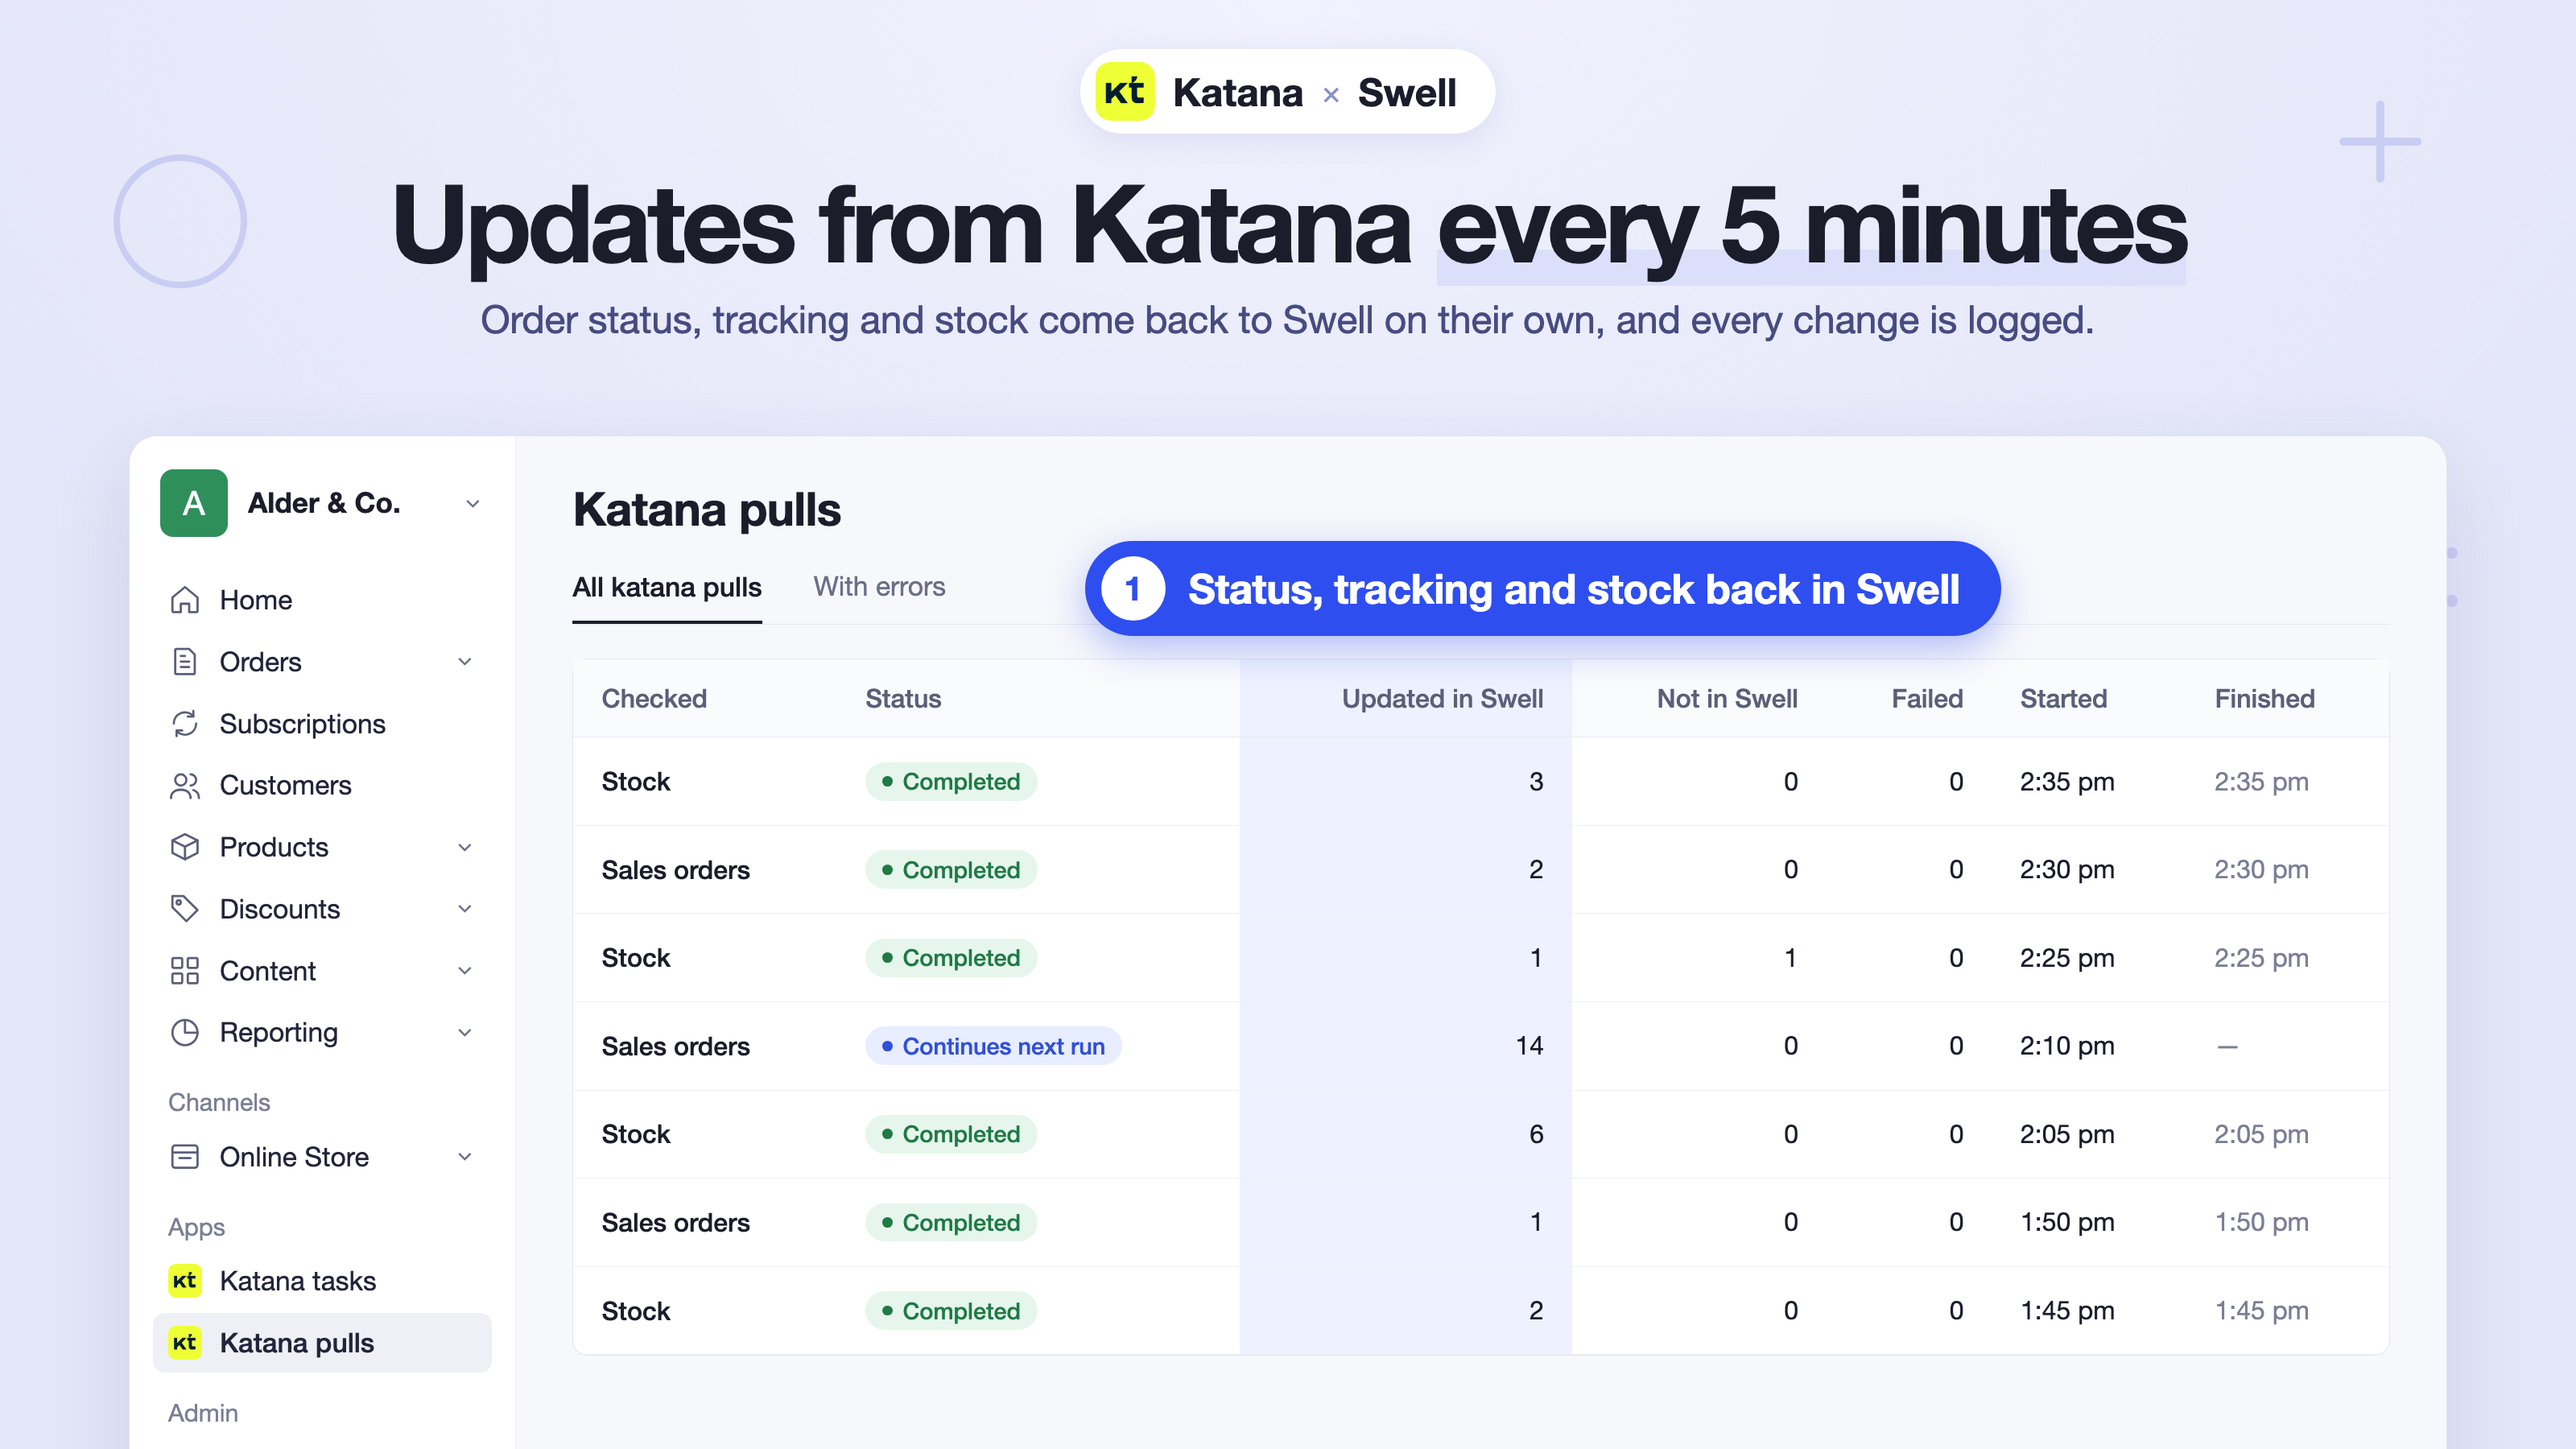
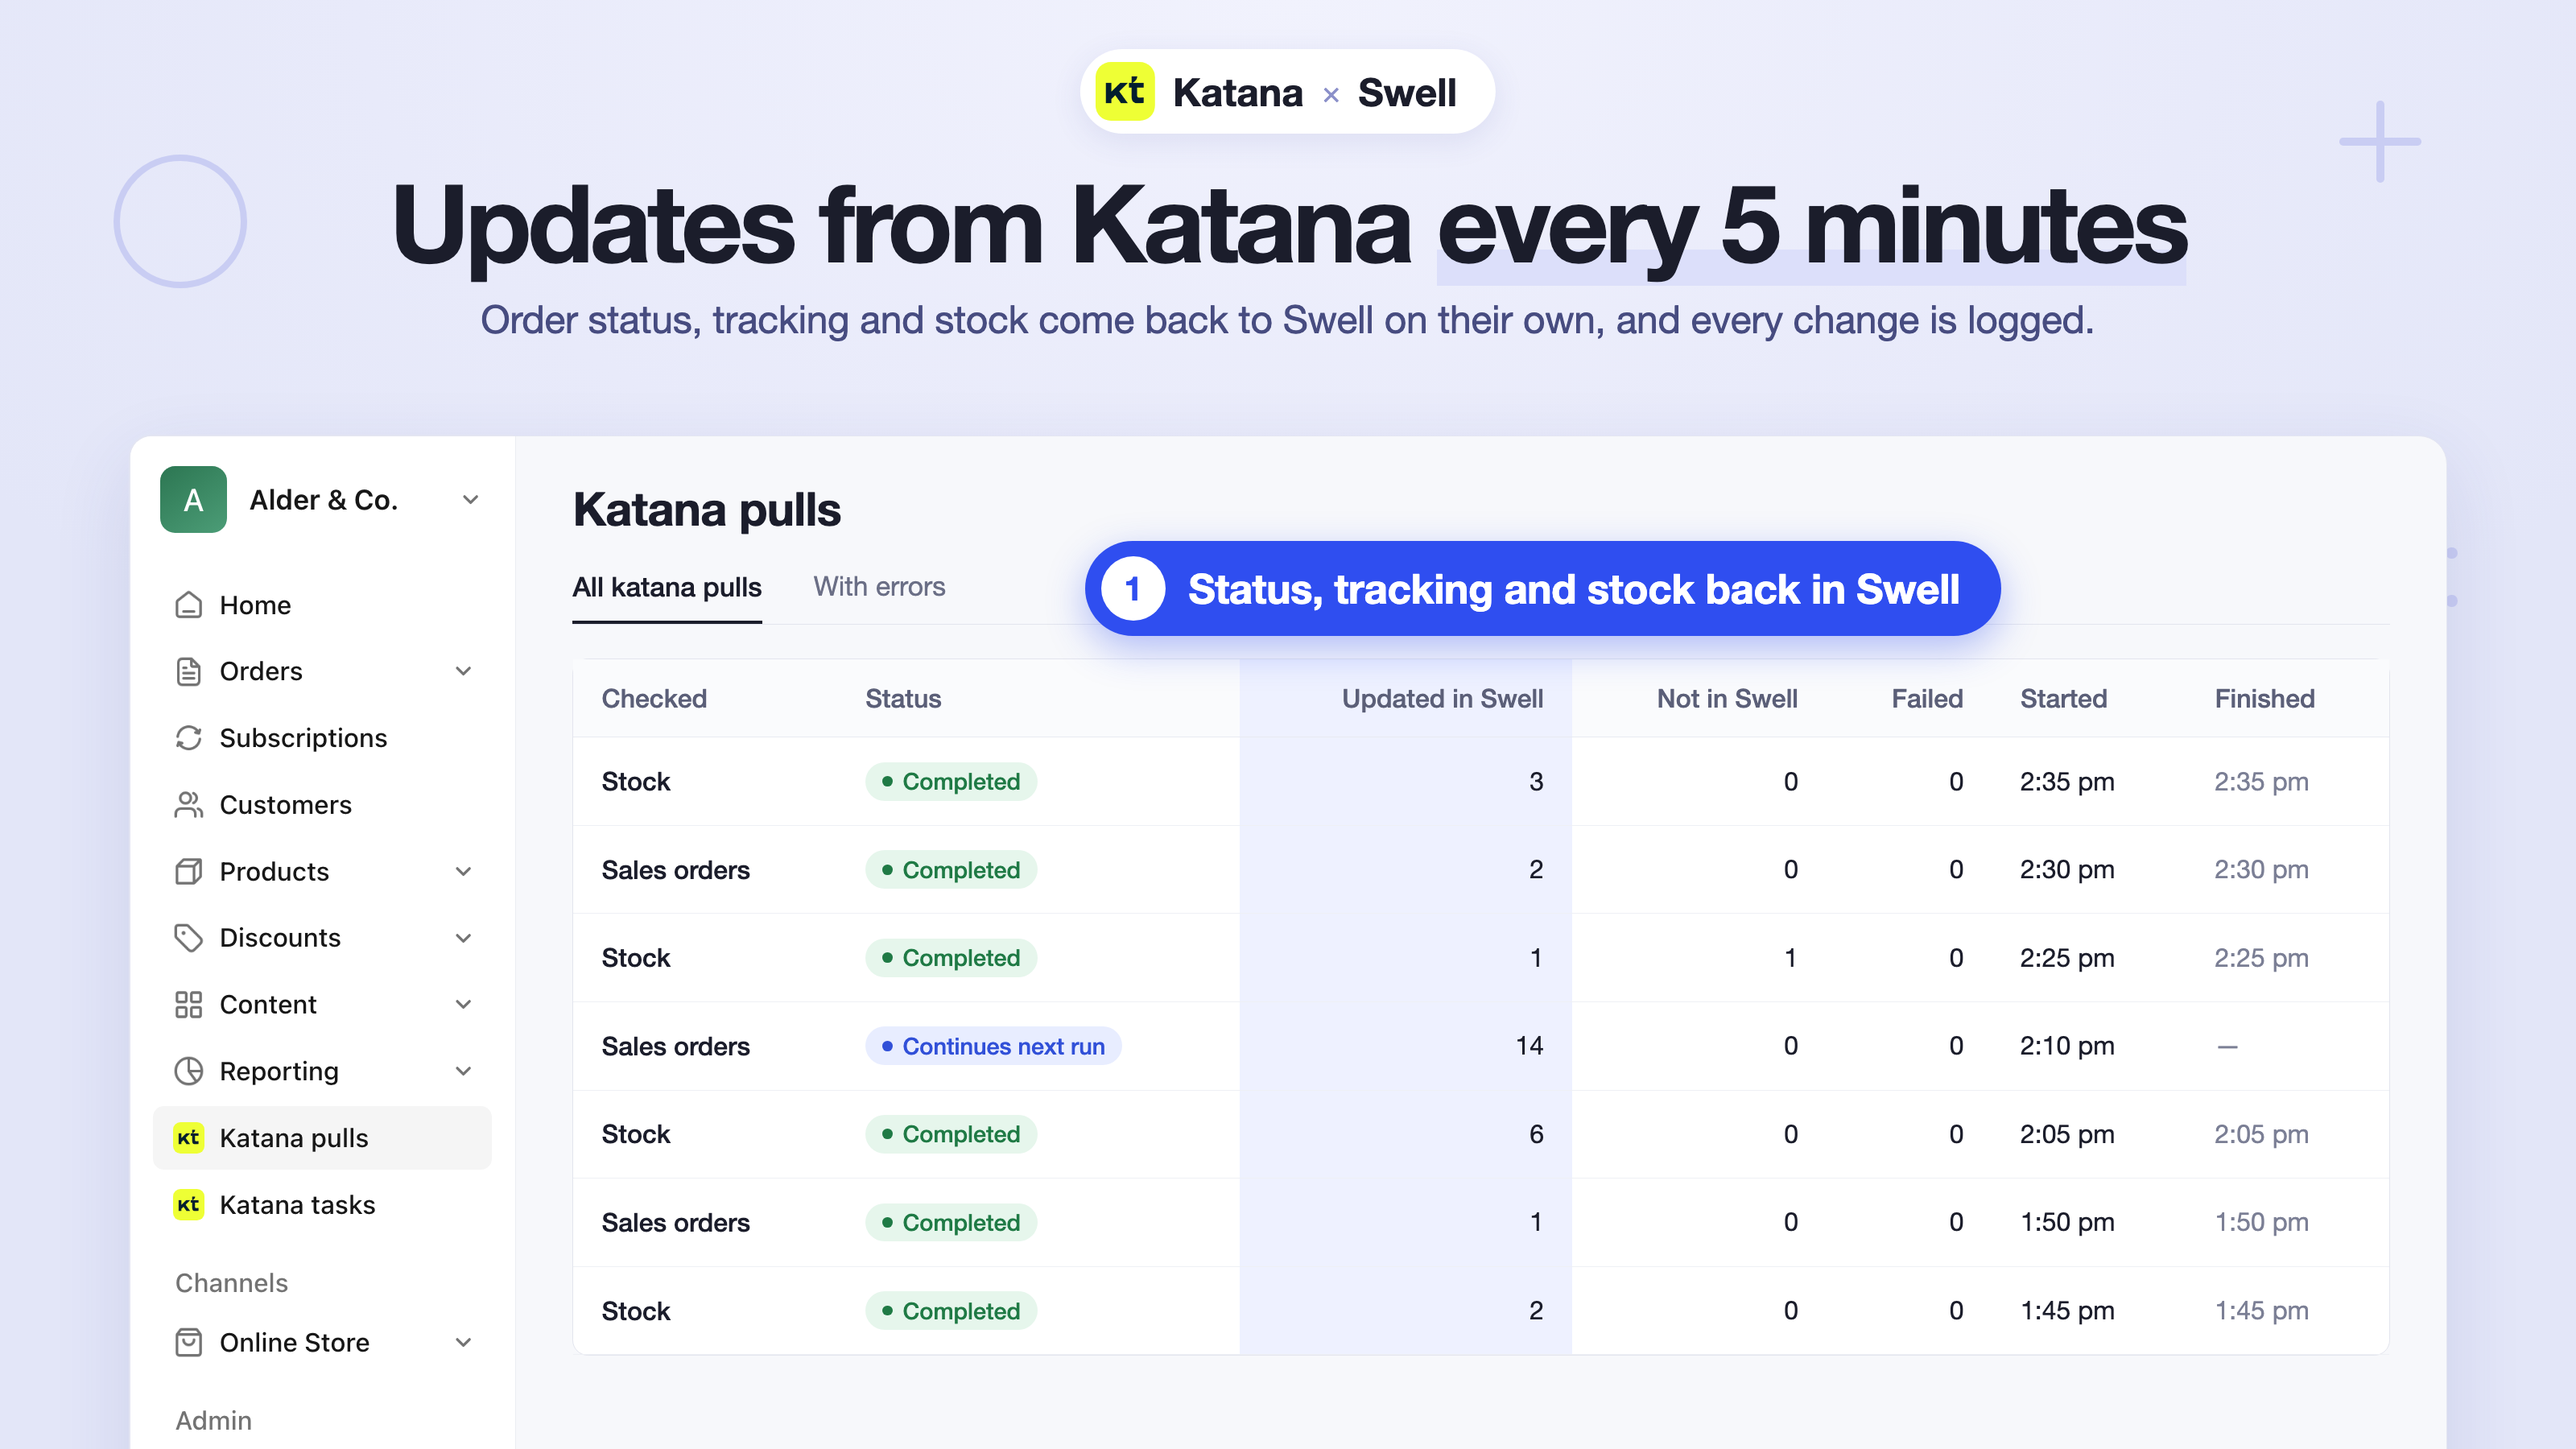
Update App Store listing: guide link, real sidebar, social card
- documentation_url to the Katana app guide; price_external
- Images: the sidebar lists Katana pulls and Katana tasks after
  Reporting, as the dashboard does, with no Apps heading
- Image 2: only one task of each kind is active, so the waiting task is
  the only order sync
- Image 1 description: the location ID is entered
- DESCRIPTION.md rewritten to match the code; social card

Changed region(s): [[0.0625, 0.4044, 0.1562, 0.9333], [0.0625, 0.3422, 0.1562, 0.3733], [0.0625, 0.9644, 0.0938, 0.9956]]

diff --git a/DESCRIPTION.md b/DESCRIPTION.md
@@ -1,8 +1,12 @@
-Send your Swell orders to Katana Cloud Inventory as sales orders, and keep order status, tracking and stock in sync. Every 5 minutes the app brings changes from Katana back to Swell: when a sales order is delivered, the Swell order is fulfilled with its tracking number, and Swell stock follows Katana inventory at your location.
+Send your Swell orders to Katana as sales orders, and keep order status, tracking and stock in sync. When a sales order is delivered in Katana, the Swell order is fulfilled with the carrier and tracking number, and Swell stock follows Katana's stock at your location.
 
-- **Orders become sales orders.** Paid orders, or submitted ones if you choose, are created in Katana with the customer, addresses, items matched by SKU, discounts and shipping. Canceled orders are removed from Katana while they haven't shipped.
+Connect Katana with an API key and the ID of the location that ships your orders. From then on, paid orders go to Katana as they come in, and the app checks Katana for changes every 5 minutes.
+
+- **Orders become sales orders.** Paid orders, or submitted ones if you choose, go to Katana with the customer, addresses, items matched by SKU, discounts and the shipping fee. Canceled orders are removed from Katana while they haven't been packed or delivered.
 - **Fulfilled from Katana.** When a sales order is delivered in Katana, the Swell order gets a shipment with the carrier and tracking number. A Katana tab on each order shows the sales order, status, tracking and any error.
-- **Stock that follows Katana.** Swell stock is set from Katana inventory at your selling location, every 5 minutes for items that moved and with an hourly full sync. Every change is noted in the product's stock history.
-- **Big syncs in one click.** Sync all stock from Katana, send orders placed before you installed the app, or create your Swell products in Katana with their starting stock. Each runs as a task with live progress under Katana tasks.
+- **Stock that follows Katana.** Swell stock is set from Katana's stock at your location, every 5 minutes for items that moved and for every item once an hour. Each change shows in the product's stock history.
+- **Your products in Katana.** Create your Swell products in Katana with their variants, prices and costs, and copy your Swell stock as Katana's starting stock.
+- **Big syncs as tasks.** Sync all stock from Katana, send orders placed before you installed the app, or create products in Katana, each as a task with progress, cancel and resume.
+- **Errors where you look for them.** Orders with a missing or duplicate SKU aren't sent, and the order's Katana tab lists the SKUs to fix. Every check that changed something is logged under Katana pulls.
 
-Setup takes a few minutes. In Katana, create an API key in Settings → API. In Swell, enter it in the app settings with the ID of the Katana location that ships your orders, and run Test connection. Make sure your Swell products and variants have the same SKUs as in Katana.
+Setup takes a few minutes. In Katana, create an API key under Settings → API. In Swell, enter it in the app settings, run Test connection to find your location ID, and save it. Make sure your Swell products and variants have the same SKUs as in Katana.
